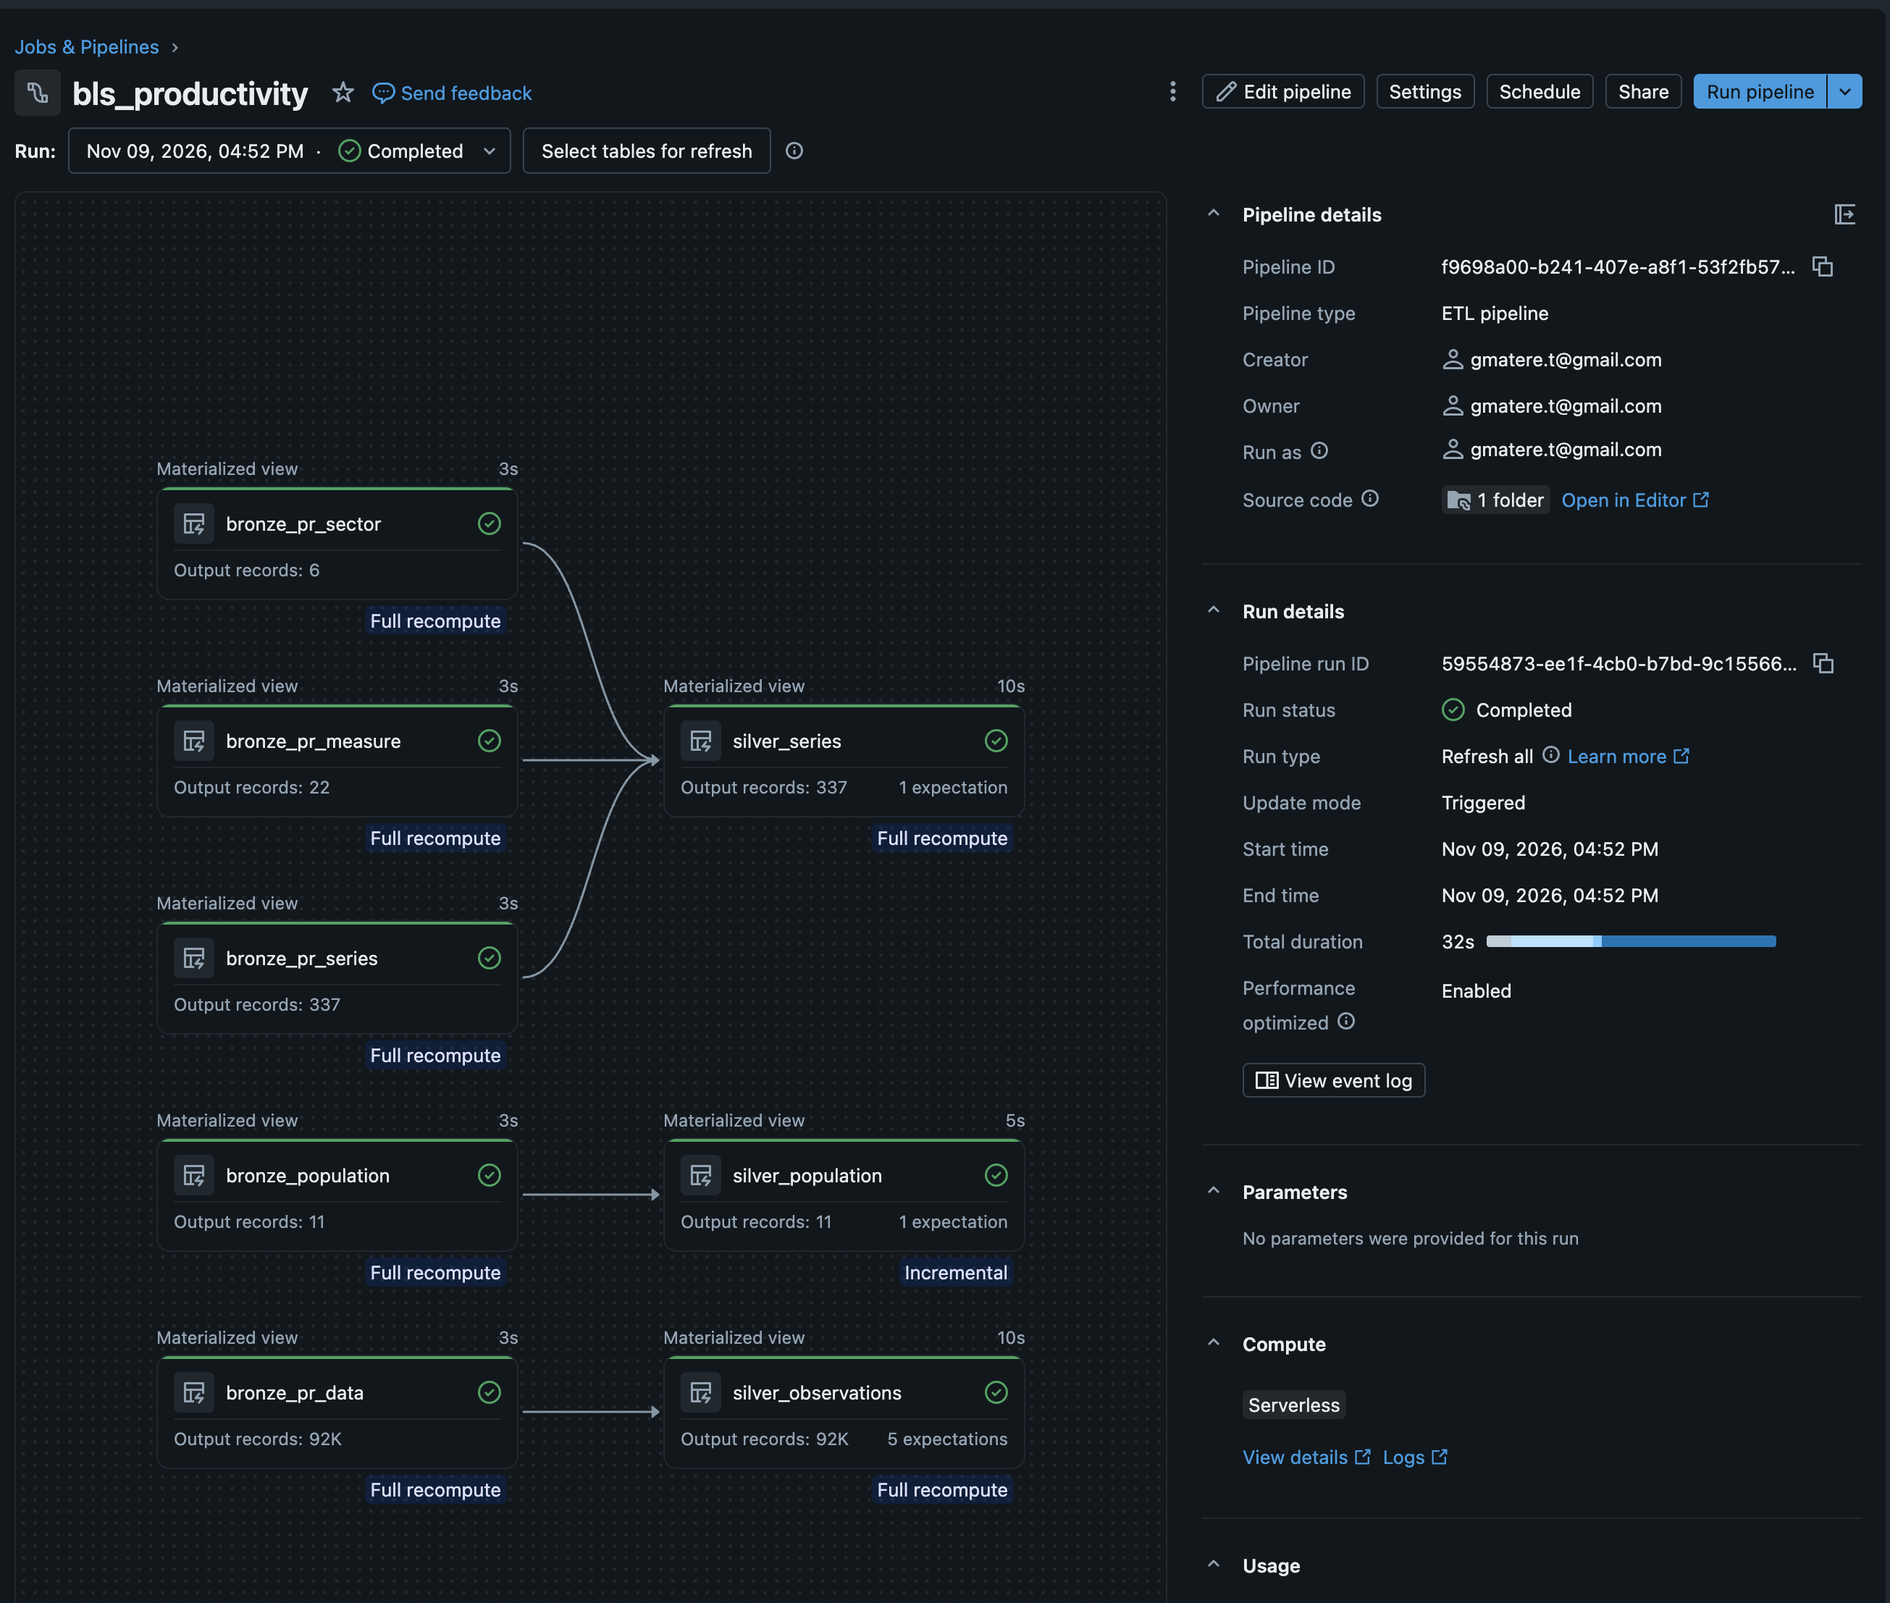
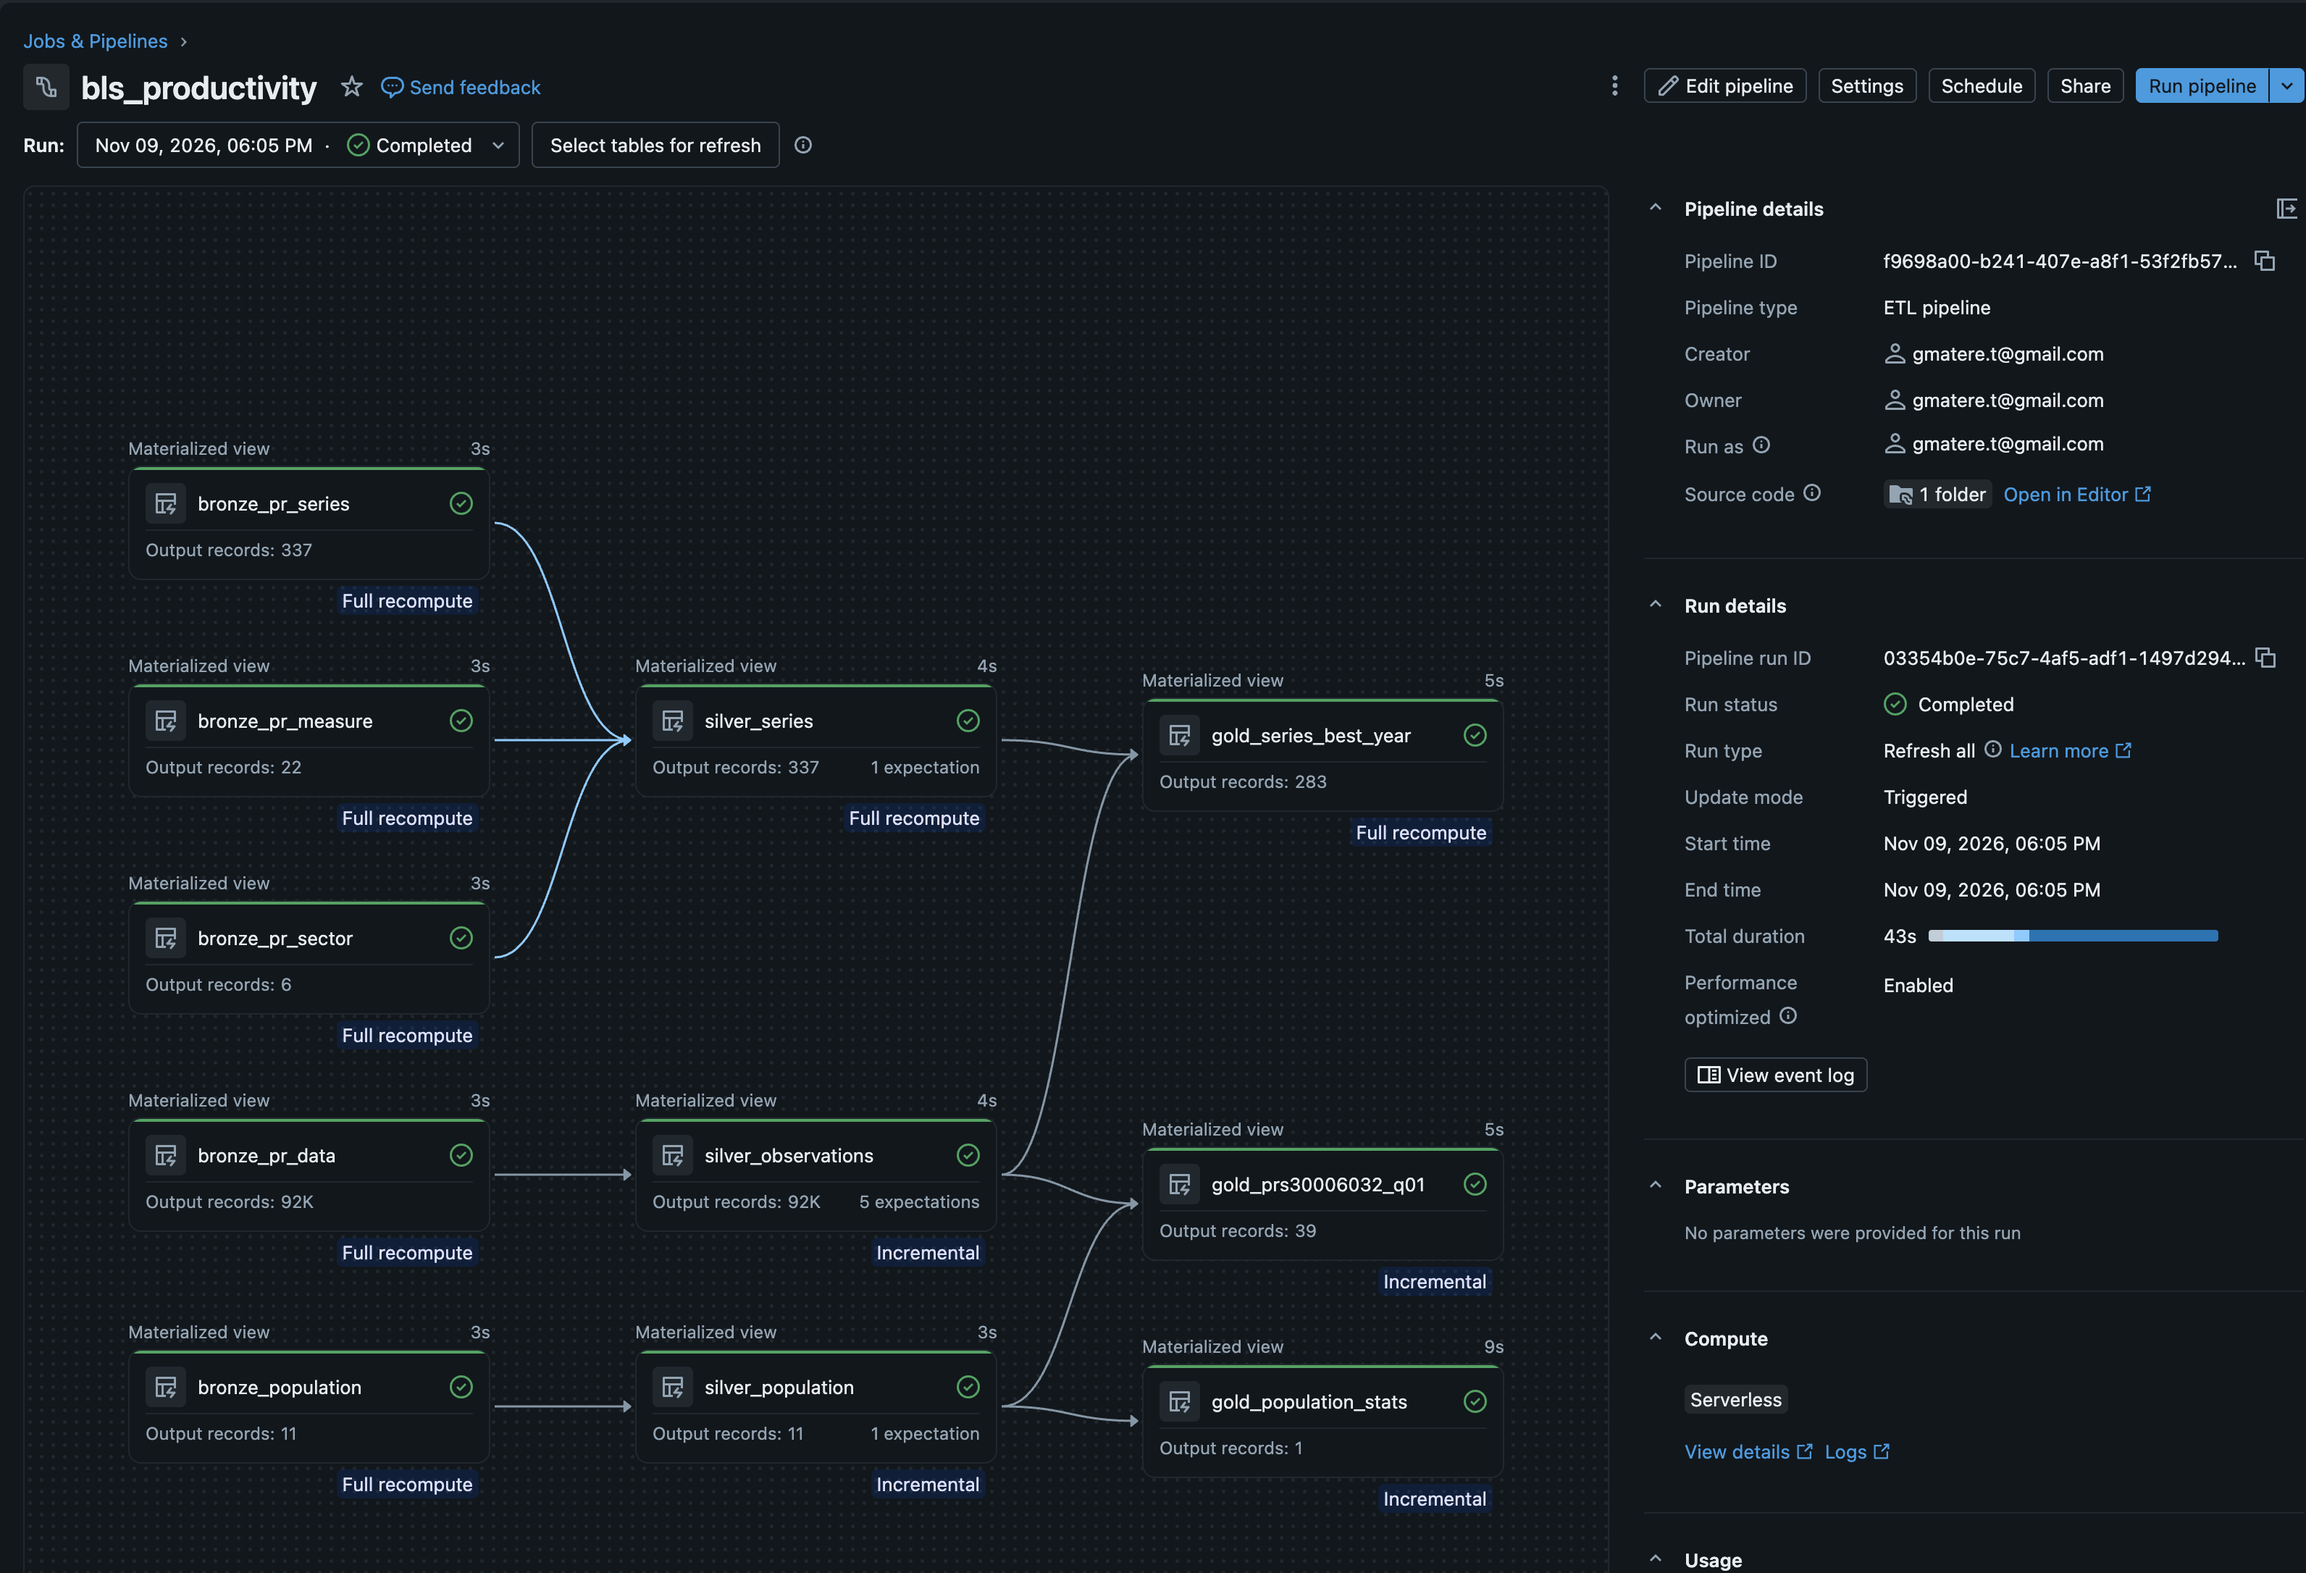
fix(ingest): scope tombstoning to BLS-sourced files; use BLS series_title as series label

diff --git a/notebooks/bronze_silver.py b/notebooks/bronze_silver.py
@@ -70,13 +70,14 @@ def silver_observations():
             .withColumn("is_annual_average", F.col("period") == F.lit("Q05")))
 
 
-@dlt.table(comment="Series with human-readable labels.")
+@dlt.table(comment="Series with BLS's own human-readable title, plus component labels.")
 @dlt.expect_or_fail("series_id_present", "series_id IS NOT NULL")
 def silver_series():
     s = spark.read.table("bronze_pr_series").select(
             F.trim("series_id").alias("series_id"),
             F.trim("sector_code").alias("sector_code"),
-            F.trim("measure_code").alias("measure_code"))
+            F.trim("measure_code").alias("measure_code"),
+            F.trim("series_title").alias("series_label"))
     sector = spark.read.table("bronze_pr_sector").select(
             F.trim("sector_code").alias("sector_code"),
             F.trim("sector_name").alias("sector_name"))
@@ -85,8 +86,6 @@ def silver_series():
             F.trim("measure_text").alias("measure_text"))
     return (s.join(sector, "sector_code", "left")
              .join(measure, "measure_code", "left")
-             .withColumn("series_label",
-                         F.concat_ws(" — ", "measure_text", "sector_name"))
              .select("series_id", "series_label", "sector_name", "measure_text"))
 
 

diff --git a/notebooks/01_ingest.py b/notebooks/01_ingest.py
@@ -119,8 +119,11 @@ def sync() -> list[dict]:
                     "reason": "new file" if not prior else "content changed"})
         time.sleep(0.5)   # be a polite client
 
-    # Tombstone anything that disappeared upstream. Never delete history.
-    gone = set(known) - set(files)
+    # Tombstone only files this function manages. population.json comes from a
+    # different source and is not in the BLS listing, so an unscoped
+    # set-difference would mark it removed on every run.
+    gone = {fn for fn, row in known.items()
+            if (row["source_url"] or "").startswith(BASE) and fn not in files}
     for fn in gone:
         if known[fn]["status"] == "active":
             spark.sql(f"UPDATE {MANIFEST} SET status='removed' WHERE filename='{fn}'")

diff --git a/PROCESS.md b/PROCESS.md
@@ -18,10 +18,13 @@ hardcoded, so a new file is picked up without a code change.
 
 **Reading the BLS documentation changed two answers.** `pr.period` is where
 `Q05` turns out to be the annual average, not a fifth quarter — the single most
-important fact here, and you only find it by reading the docs. The readable
-labels question 2 asks for come from the same place: `pr.series` holds only
-codes, joined to `pr.sector` and `pr.measure` to make *Labor productivity
-(output per hour) — Manufacturing*.
+important fact here, and you only find it by reading the docs.
+
+The readable labels question 2 asks for come from `pr.series`, which carries a
+`series_title` written by BLS: *Employment for the Manufacturing sector,
+% Change same quarter 1 year ago*. `sector_name` and `measure_text` are kept
+alongside it as separate columns, because they are useful to filter on even
+though the title already reads well on its own.
 
 Observations come from `pr.data.1.AllData`, not `pr.data.0.Current`. `Current`
 only covers recent years; question 2 needs each series' full history.
@@ -180,6 +183,27 @@ is doing.
 work*. And a green pipeline with empty tables is worse than a failed one,
 because nothing tells you to look.
 
+### The label I built, and the one BLS had already written
+
+Question 2 asks for a label someone unfamiliar with BLS codes could understand
+at a glance. I built one by joining `pr.series` to `pr.sector` and
+`pr.measure`, which produced *Employment — Manufacturing*.
+
+Then I looked at the output. `PRS30006011`, `012`, `013` and `014` all carried
+that identical label. They are four different series — percent change on the
+year, percent change on the quarter, an index, and a level in millions of jobs
+— separated by `duration_code`, which my label had thrown away.
+
+`pr.series` already has a `series_title` column written by BLS that
+distinguishes them properly. I had read enough of the documentation to find the
+lookup tables and not enough to notice the answer was sitting in the file I was
+already reading. The label now comes from `series_title`; the components stay
+as separate columns because they are useful to filter on.
+
+It also only surfaced because I looked at the rows rather than the row count.
+283 labelled series is a number that looks correct whether or not the labels
+mean anything.
+
 ### Smaller things that cost time
 
 - **The padding appears twice** — in the headers and in the values, needing
@@ -193,6 +217,11 @@ because nothing tells you to look.
 - **283 of 337 series have a best year.** The other 54 are listed in
   `pr.series` but have no non-`Q05` rows in the data file, checked with a
   left-anti join. The metadata describes more series than the data holds.
+- **The tombstone pass assumed one source.** It compared the whole manifest
+  against the BLS directory listing, which marked `population.json` removed on
+  every run — it comes from the API and was never in that listing. Scoped it to
+  rows whose `source_url` belongs to the BLS endpoint. A manifest covering more
+  than one source has to know which source each row came from.
 - **The population API has no 2020** — ACS didn't publish 1-year estimates that
   year. It's outside the range question 1 asks for, so I noted it rather than
   filling it in.

diff --git a/README.md b/README.md
@@ -30,7 +30,20 @@ returns the sample form. See `PROCESS.md`.
 
 **283 series** have a best year, each labelled with what it measures.
 
-> _Sample rows pending — see `workspace.rearc.gold_series_best_year`._
+| series_id | series_label | year | summed_value |
+|---|---|---:|---:|
+| PRS30006011 | Employment for the Manufacturing sector, % Change same quarter 1 year ago | 2022 | 16.40 |
+| PRS30006012 | Employment for the Manufacturing sector, % Change from previous quarter | 2022 | 13.00 |
+| PRS30006013 | Employment for the Manufacturing sector, Index (2017=100) | 1989 | 578.37 |
+| PRS30006014 | Employment for the Manufacturing sector, Level (Millions of jobs) | 1989 | 73.69 |
+| PRS30006021 | Average weekly hours for the Manufacturing sector, % Change same quarter 1 year ago | 2010 | 14.20 |
+
+_First five of 283, ordered by `series_id`._
+
+The label is `series_title` from `pr.series` — BLS's own wording. The four
+`PRS300060 1x` series above measure the same thing in four different ways, and
+a label built from sector and measure alone would have rendered all four
+identically.
 
 `Q05` is **excluded**: `pr.period` defines it as the annual average, not a
 fifth quarter, so summing `Q01`–`Q05` would add the mean of four values to
